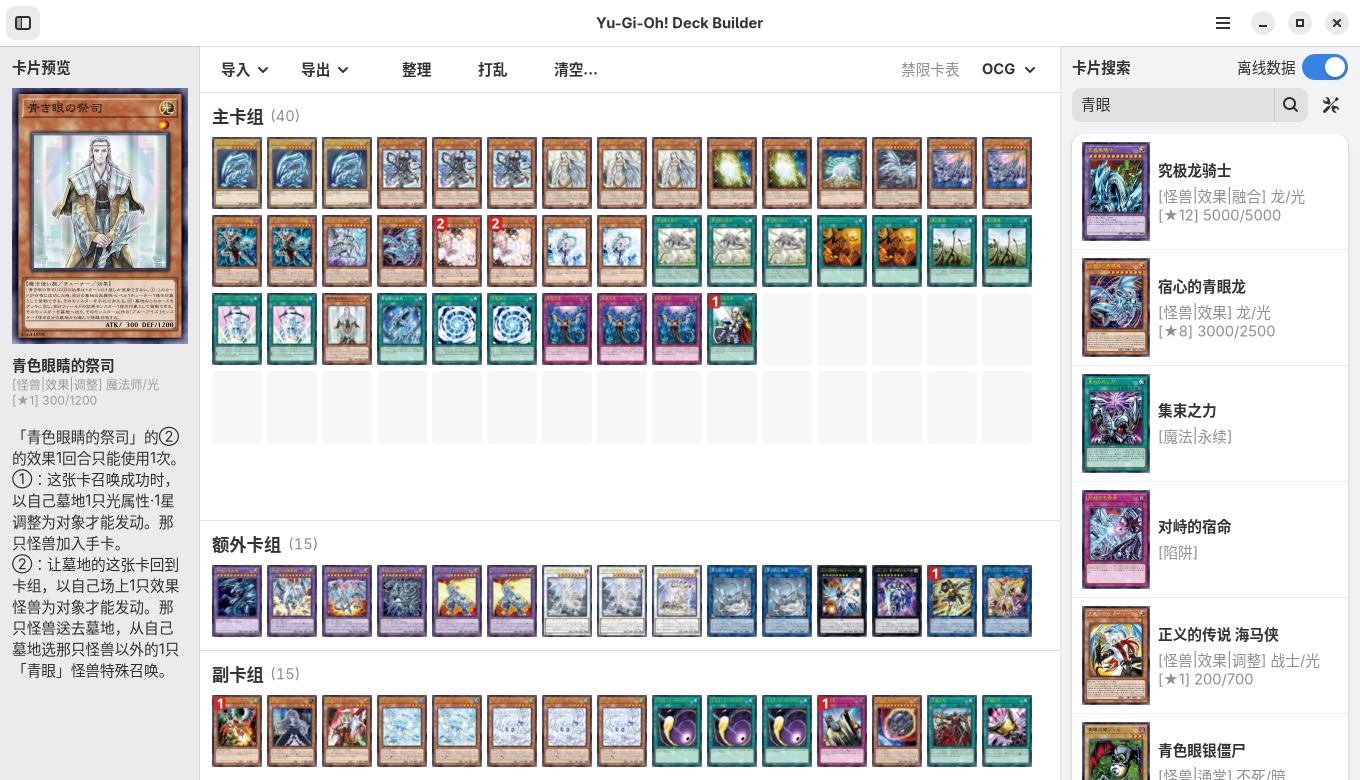
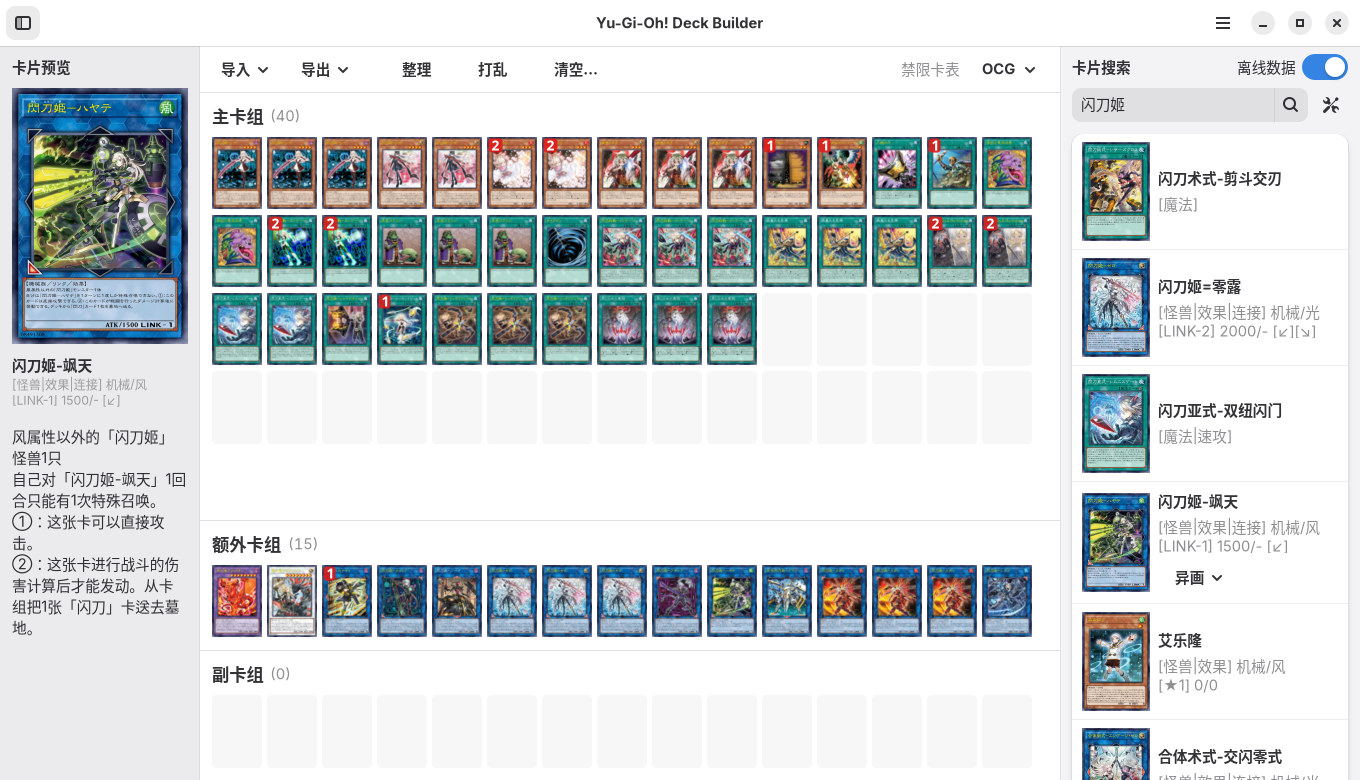
docs: 用现有闪刀姬卡组更新 README 截图

Changed region(s): [[0.0, 0.1231, 0.9574, 0.5846], [0.0, 0.5538, 0.9574, 1.0], [0.8029, 0.1231, 0.8338, 0.1538]]

diff --git a/README.md b/README.md
@@ -2,7 +2,7 @@
 
 一个基于 **GTK4** 和 **libadwaita** 的桌面端游戏王卡组编辑器。
 
-![YGODBR 主界面，展示青眼示例卡组、卡片预览和搜索结果](Screenshot.png)
+![YGODBR 主界面，展示闪刀姬卡组、卡片预览和搜索结果](Screenshot.png)
 
 ## 项目特色
 - 提供完整的卡组编辑器体验，包括查卡、编辑卡组、导入/导出等功能
